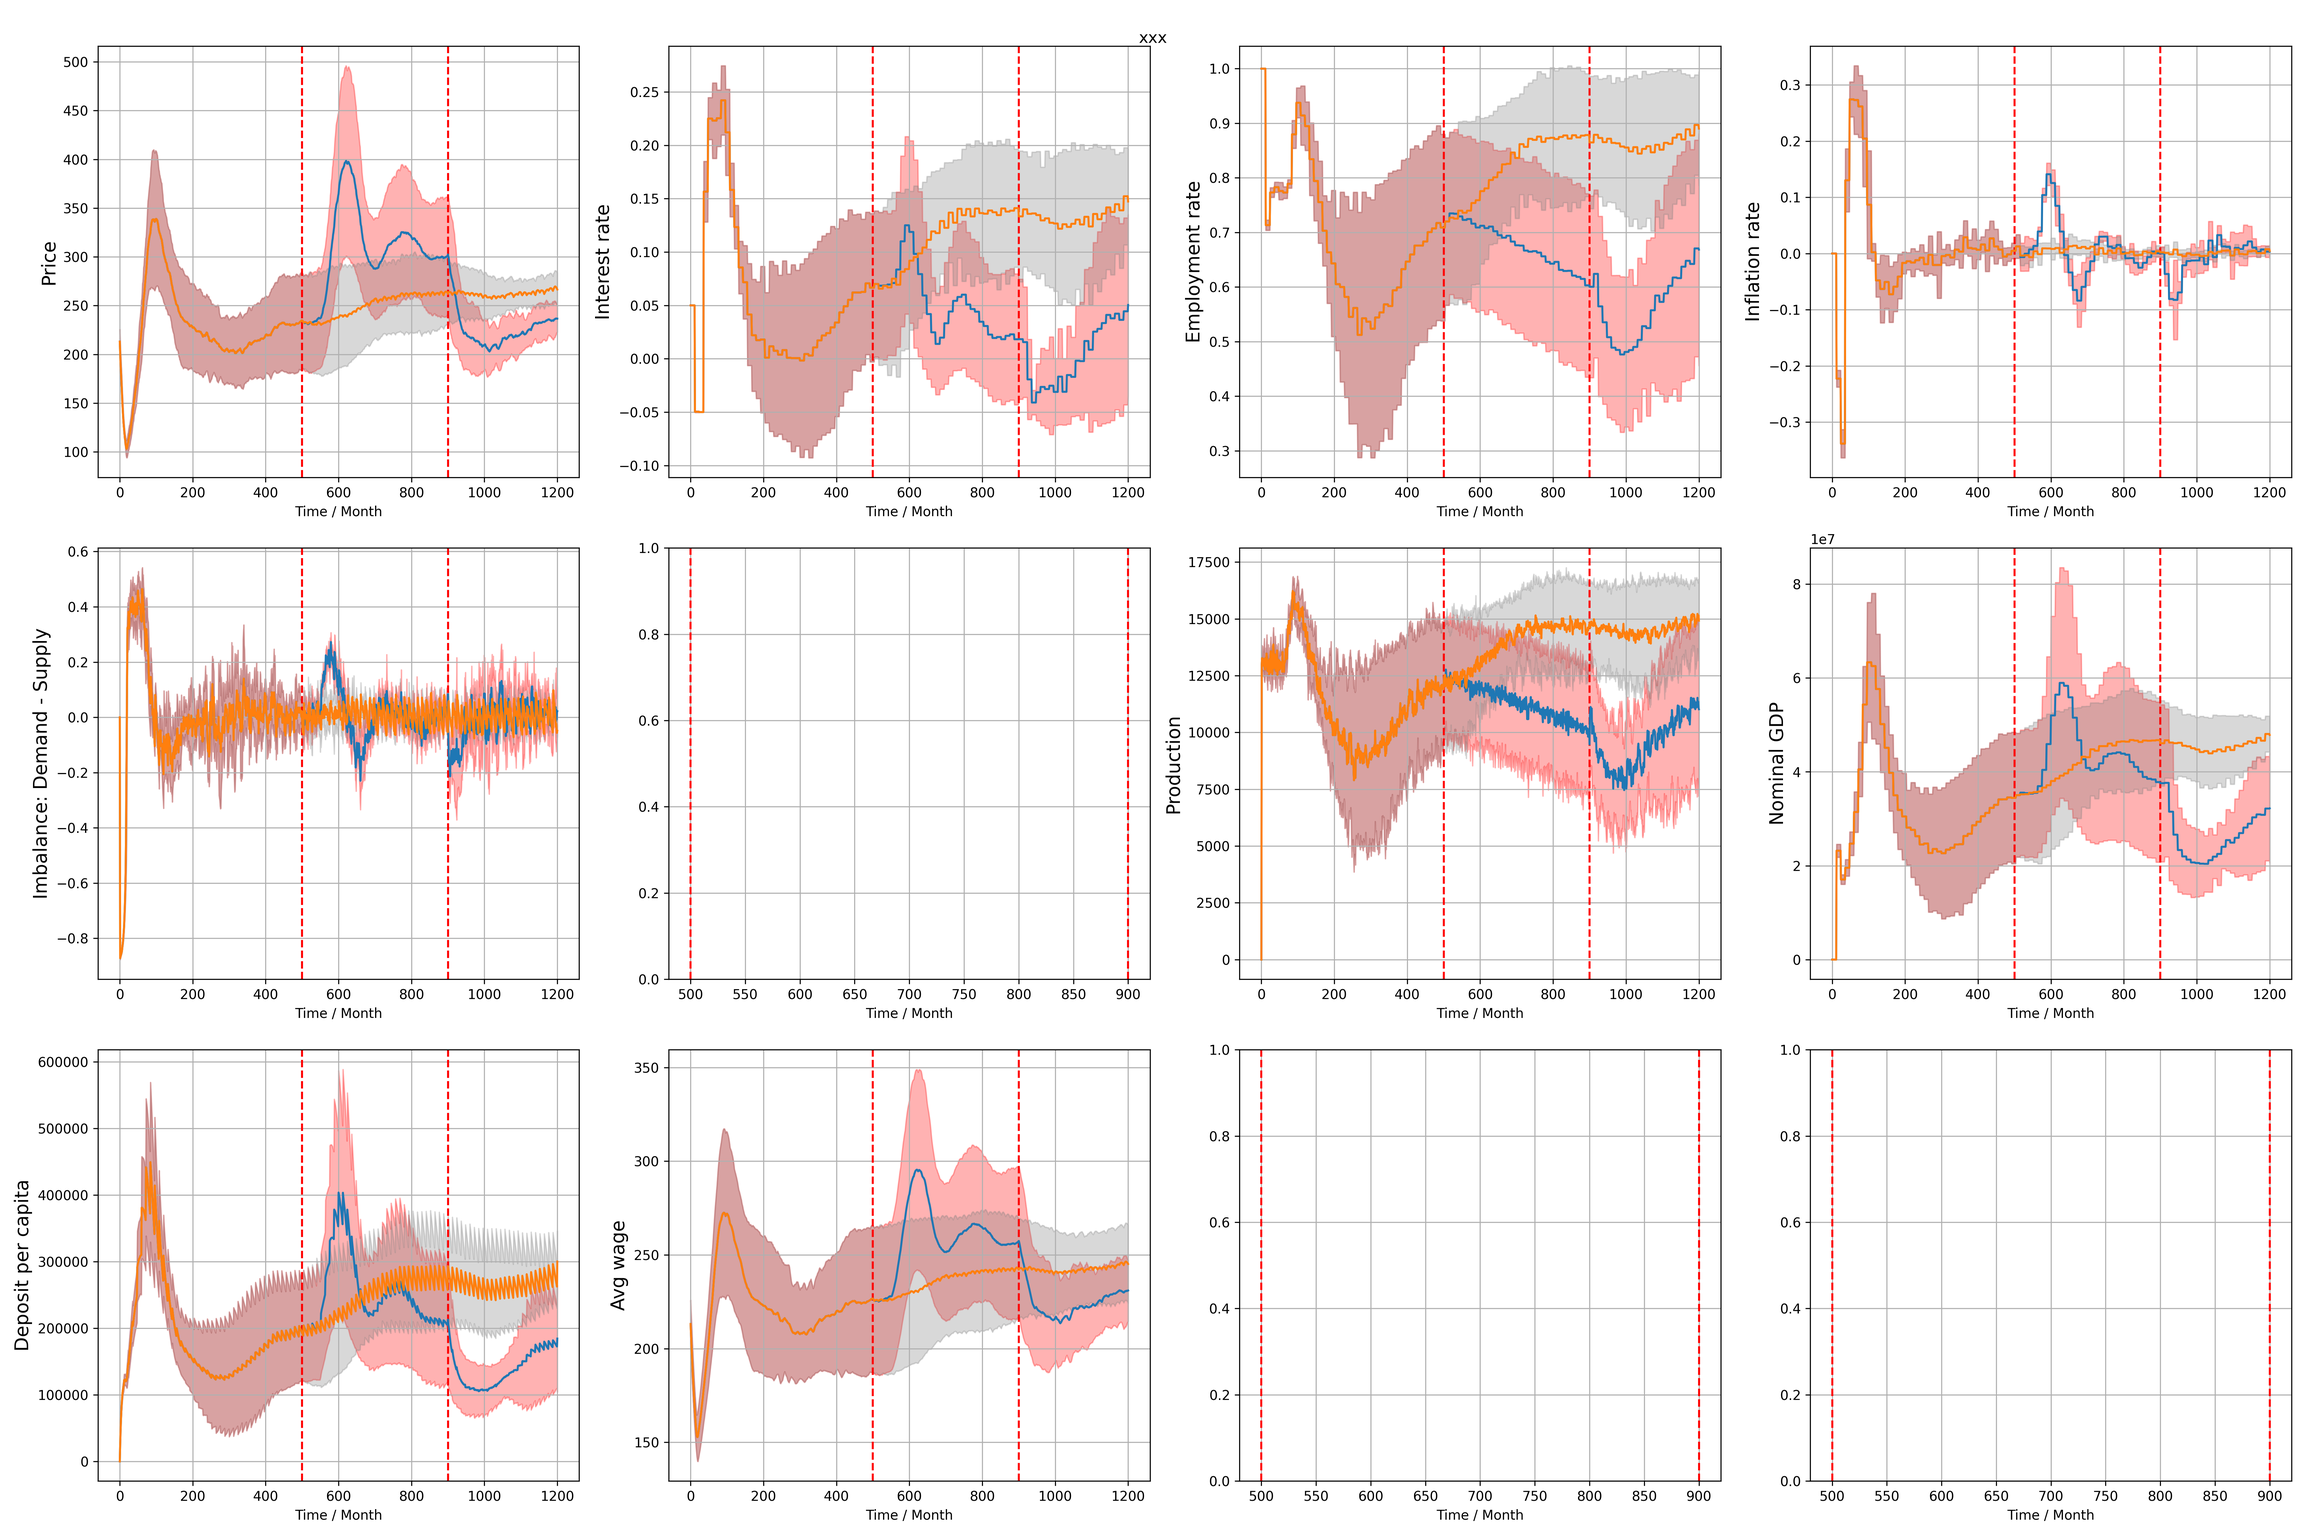
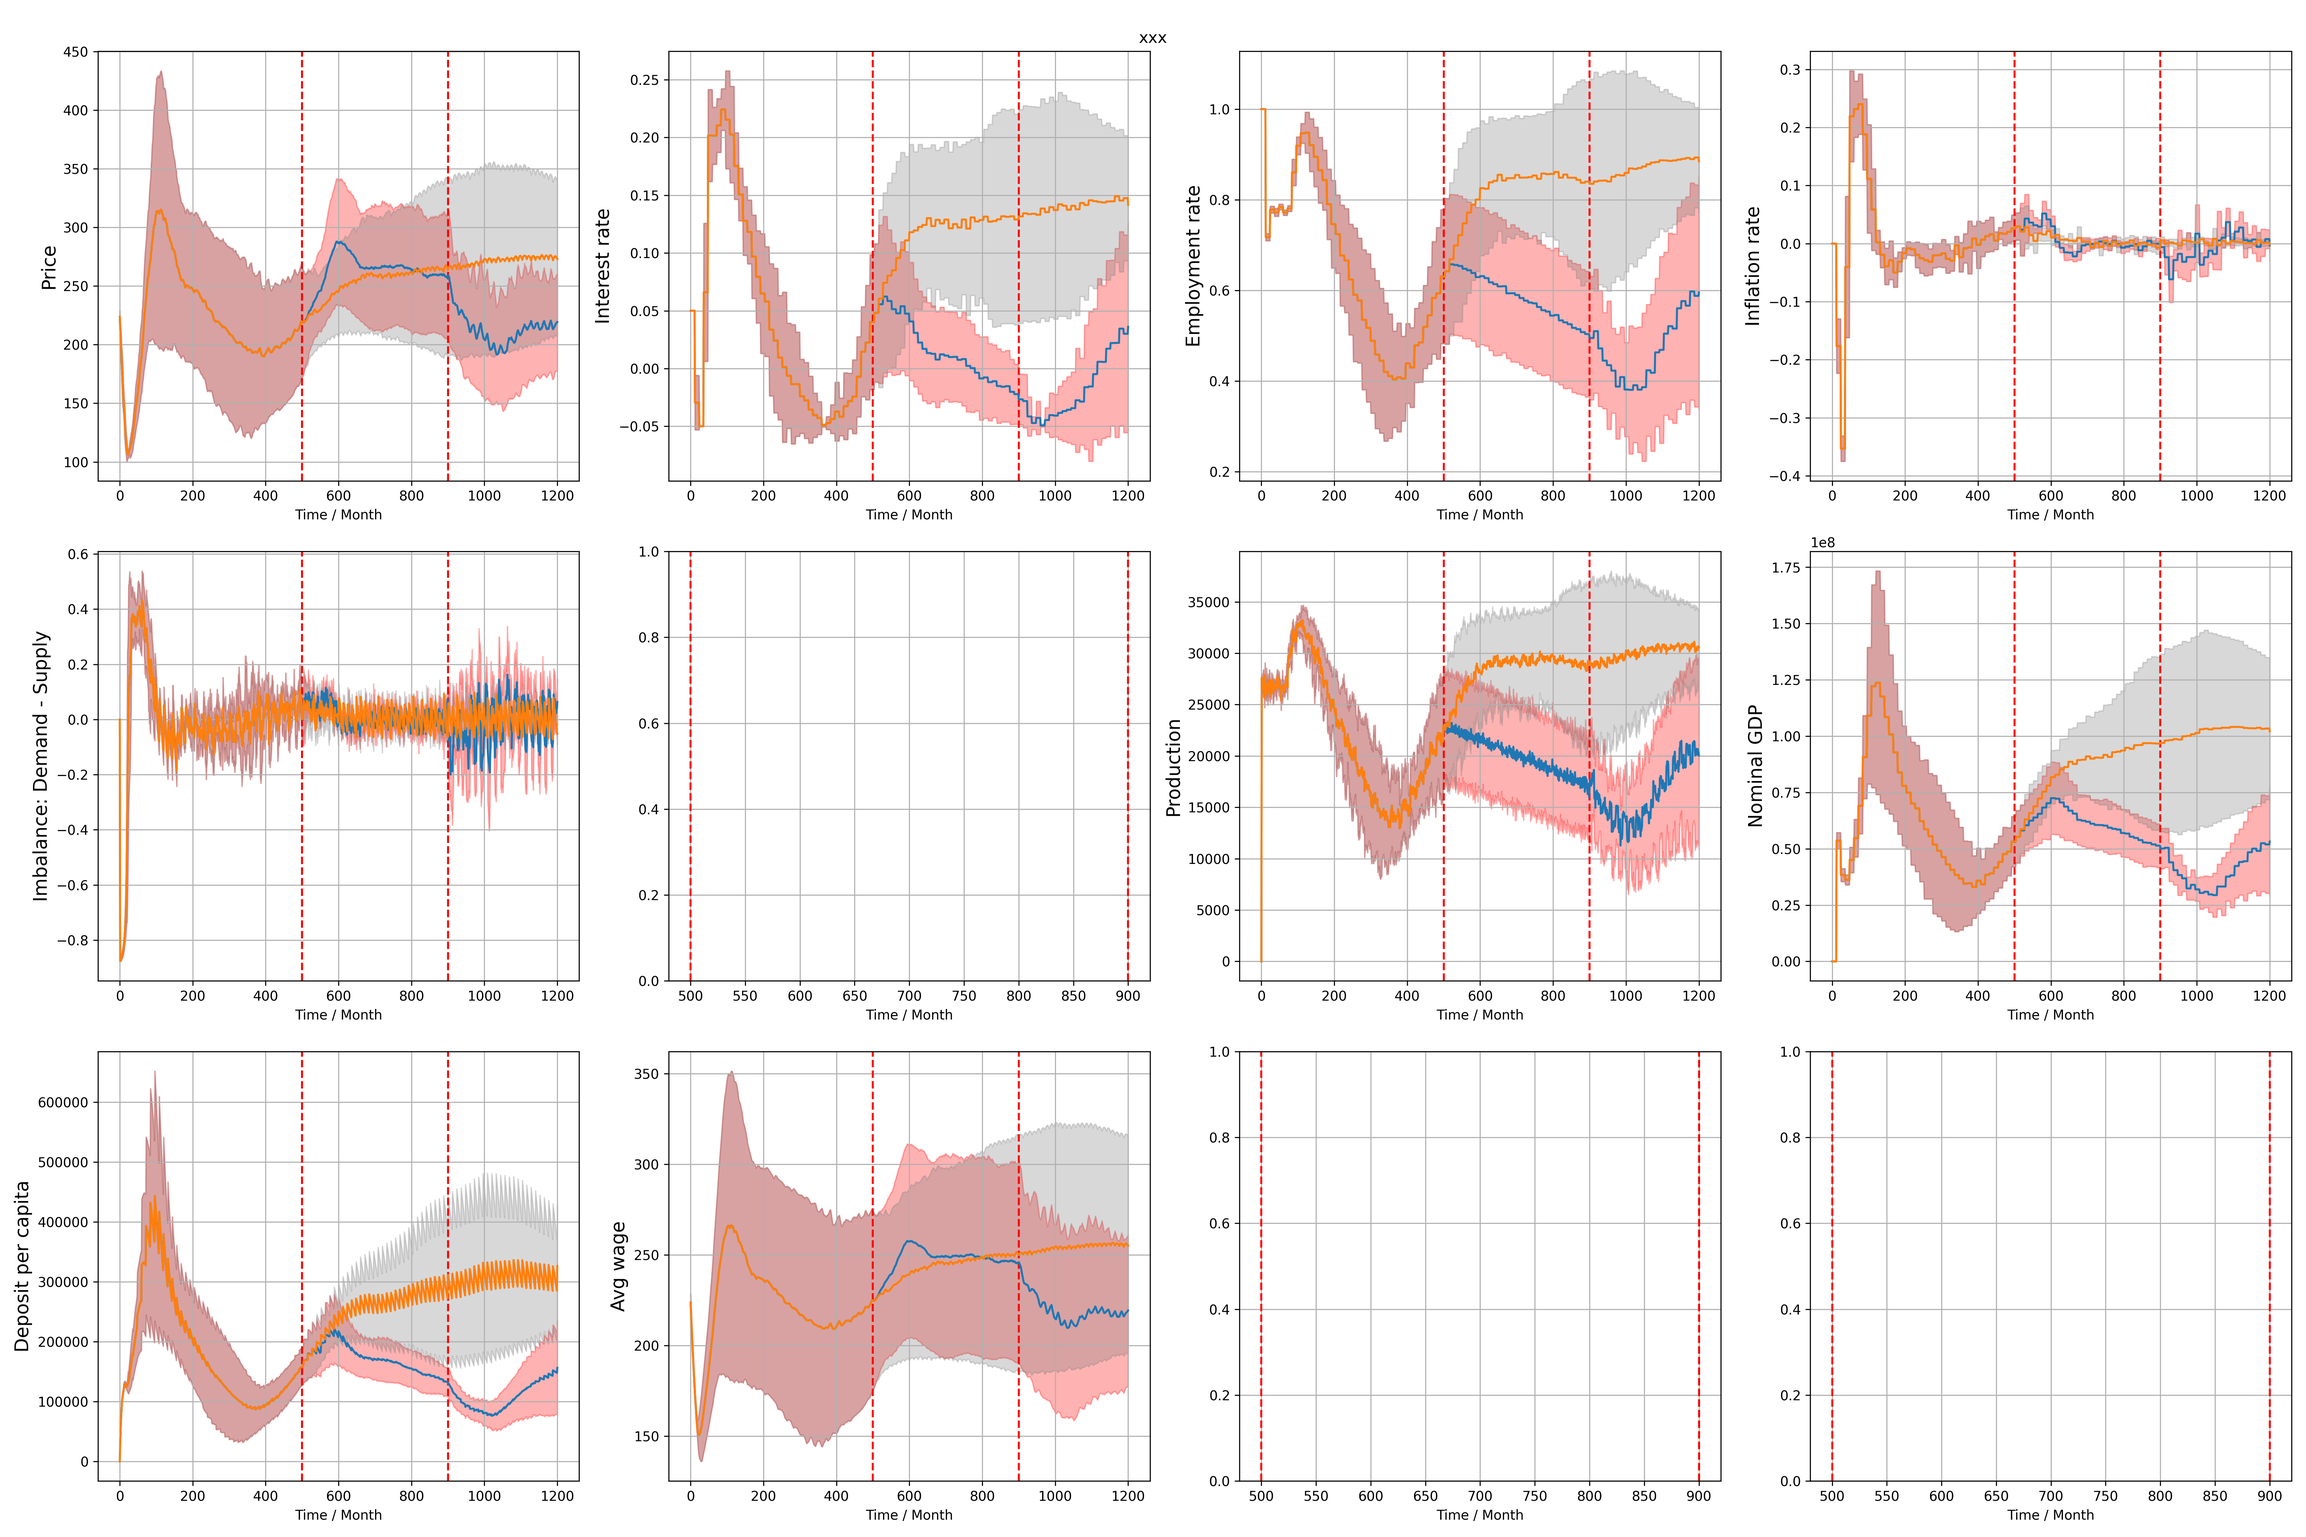
a

diff --git a/main.py b/main.py
@@ -1,118 +1,13 @@
 import numpy as np
 import random
-from utils import beta_dist, pay_wage, taxation, inflation, GDP, unemployment
+from utils import taxation, inflation, GDP, unemployment, init_agents
 from copy import deepcopy
 from config import Configuration
-
-class agent:
-    '''
-    homogeneous worker/consumer agent.
-    working skill is same (unit one) for all agents.
-    '''
-    def __init__(self, id:int, pw:float, pc:float, gamma:float, beta:float):
-        self.id = id
-        self.pw = pw         # probability of working
-        self.w = 0           # hourly wage
-        self.z = 0           # monthly income
-        self.pc = pc         # proportion of consumption
-        self.l = 0           # work state (0: unemployed, 1: employed)
-        self.gamma = gamma
-        self.beta = beta
-        
-    def work_decision(self,):
-        self.l = 1 if random.random() < self.pw else 0
-        return self.l
-    
-    def work_adjustment(self, deposit:float, rate:float):
-        '''
-        adjust the probability of working based on deposit and interest rate
-        '''
-        self.pw = pow((self.z + 1e-5) / (deposit + deposit*rate + 1e-5), self.gamma)
-        # print(self.id, self.z, deposit, "pw:", self.pw)
-        return self.pw
-    
-    def consume_adjustment(self, P:float, deposit:float):
-        '''
-        adjust the proportion of consumption based on the price and deposit
-        '''
-        self.pc = pow(P / (deposit + self.z + 1e-5), self.beta)
-        return self.pc
+from src.agent import agent
+from src.firm import firm
+from src.bank import bank
 
 
-class bank:
-    '''
-    central bank
-    '''
-    def __init__(self, rn:float, pi_t:float, un:float, alpha_pi:float, alpha_u:float):
-        self.rn = rn        # natural interest rate, constant value
-        self.pi_t = pi_t    # target inflation rate, constant value
-        self.un = un        # natural unemployment rate, constant value
-        self.rate = rn      # initial interest rate = natural rate
-        self.alpha_pi = alpha_pi
-        self.alpha_u = alpha_u
-        self.deposits = {}
-    
-    def interest(self, agent_list:list[agent],):
-        '''
-        interest rate payment anually
-        '''
-        for a in agent_list:
-            self.deposits[a.id] *= (1 + self.rate)
-    
-    def deposit(self, agent_id, income:float):
-        '''
-        update the deposit of the agent with agent_id
-        '''
-        # print('before:', agent_id, self.deposits[agent_id])
-        if agent_id in self.deposits:
-            self.deposits[agent_id] += income
-        else:
-            self.deposits[agent_id] = income
-        # print('after:', agent_id, self.deposits[agent_id])
-    
-    def rate_adjustment(self, unemployment_rate:float, inflation_rate:float):
-        '''
-        Taylor rule for interest rate adjustment
-        
-        '''
-        rate_after = max(self.rn + self.pi_t + self.alpha_pi * (inflation_rate - self.pi_t) + self.alpha_u * (self.un - unemployment_rate), -0.05)
-        self.rate = rate_after
-        return rate_after
-
-class firm:
-    def __init__(self, A:float, alpha_w:float, alpha_p:float):
-        self.A = A # universal productivity
-        self.G = 0 # quantity of essential goods
-        self.P = 0 # price of essential goods
-        self.alpha_w = alpha_w # wage adjustment parameter
-        self.alpha_p = alpha_p # price adjustment parameter
-
-    def produce(self, agent_list:list[agent],):
-        '''
-        production of essential goods
-        '''
-        production = sum([168 * self.A for a in agent_list if a.l==1])
-        # for a in agent_list:
-        #     if a.l == 1: production += 168 * self.A
-        self.G += production
-        return production
-    
-    def wage_adjustment(self, agent_list:list[agent], imbalance:float):
-        '''
-        调整工资并不能刺激生产，需要补齐这个逻辑
-        '''
-        assert len(agent_list) > 0
-        sgn = 1 if imbalance > 0 else -1
-        
-        for a in agent_list:
-            a.w *= (1 + sgn * self.alpha_w * abs(imbalance) * np.random.uniform())
-    
-    def price_adjustment(self, imbalance:float):
-        
-        sgn = 1 if imbalance > 0 else -1
-        self.P *= (1 + sgn * self.alpha_p * abs(imbalance) * np.random.uniform())
-        return self.P
-    
 class market:
     def __init__(self, ) -> None:
         pass
@@ -138,25 +33,15 @@ class market:
     
 
 def simulation(config:Configuration, event=False, intervention=False):
-    '''
-    one episode of simulation
-    '''
+    '''one episode of simulation'''
     random.seed(config.seed)
     np.random.seed(config.seed)
     
     M = market()
     F = firm(A=config.A, alpha_w=config.alpha_w, alpha_p=config.alpha_p)
-    B = bank(rn=config.rn, pi_t=config.pi_t, un=config.un, alpha_pi=config.alpha_pi, alpha_u=config.alpha_u)
-    
-    agents = [agent(id=i, 
-                    pw=np.random.uniform(config.pw_low, config.pw_high), 
-                    pc=np.random.uniform(config.pc_low, config.pc_high), 
-                    gamma=config.gamma, 
-                    beta=config.gamma) for i in range(config.num_agents)]
+    B = bank(rn=config.rn, pi_t=config.pi_t, un=config.un, alpha_pi=config.alpha_pi, alpha_u=config.alpha_u, num_agents=config.num_agents)
+    agents = init_agents(config)
 
-    for a in agents:
-        a.w = beta_dist()      # initial hourly wage
-        B.deposits[a.id] = 0.  # initial deposit
     F.P = np.mean([a.w for a in agents]) # t=0 initial price
     unem_rate = 0.
     infla_rate = 0.
@@ -179,8 +64,6 @@ def simulation(config:Configuration, event=False, intervention=False):
         }
     
     for t in range(1, config.num_time_steps+1):
-        
-        
         
         ################ 事 件 开 始 ################
         # 增加失业
@@ -211,7 +94,7 @@ def simulation(config:Configuration, event=False, intervention=False):
         production = F.produce(agents) # production
         
         
-        wages = pay_wage(agents)
+        wages = F.pay_wage(agents)
         taxes = taxation(wages)
         # print(wages[:10], taxes[:10], '\n\n')
         wages_after_tax = [w - t for w, t in zip(wages, taxes)]
@@ -221,7 +104,7 @@ def simulation(config:Configuration, event=False, intervention=False):
             
             ################ 干 预 开 始 ################
             if t >= 550 and t <= 900 and intervention:
-                B.deposit(a.id, w + sum(taxes)/config.num_agents + 0.02*B.deposits[a.id]) # redistribution
+                B.deposit(a.id, w + sum(taxes)/config.num_agents + 0.01*B.deposits[a.id]) # redistribution
             else:
                 B.deposit(a.id, w + sum(taxes)/config.num_agents) # redistribution
             ################ 干 预 结 束 ################

diff --git a/src/bank.py b/src/bank.py
@@ -1,0 +1,41 @@
+from agent import agent
+
+class bank:
+    '''
+    central bank
+    '''
+    def __init__(self, rn:float, pi_t:float, un:float, alpha_pi:float, alpha_u:float, num_agents:int):
+        self.rn = rn        # natural interest rate, constant value
+        self.pi_t = pi_t    # target inflation rate, constant value
+        self.un = un        # natural unemployment rate, constant value
+        self.rate = rn      # initial interest rate = natural rate
+        self.alpha_pi = alpha_pi
+        self.alpha_u = alpha_u
+        self.deposits = {i:0. for i in range(num_agents)} # 注意，id从0开始编号，可能需要修改
+    
+    def interest(self, agent_list:list[agent],):
+        '''
+        interest rate payment anually
+        '''
+        for a in agent_list:
+            self.deposits[a.id] *= (1 + self.rate)
+    
+    def deposit(self, agent_id, income:float):
+        '''
+        update the deposit of the agent with agent_id
+        '''
+        # print('before:', agent_id, self.deposits[agent_id])
+        if agent_id in self.deposits:
+            self.deposits[agent_id] += income
+        else:
+            self.deposits[agent_id] = income
+        # print('after:', agent_id, self.deposits[agent_id])
+    
+    def rate_adjustment(self, unemployment_rate:float, inflation_rate:float):
+        '''
+        Taylor rule for interest rate adjustment
+        
+        '''
+        rate_after = max(self.rn + self.pi_t + self.alpha_pi * (inflation_rate - self.pi_t) + self.alpha_u * (self.un - unemployment_rate), -0.05)
+        self.rate = rate_after
+        return rate_after

diff --git a/src/agent.py b/src/agent.py
@@ -1,0 +1,47 @@
+import random
+import numpy as np
+
+def beta_dist(size=1):
+    '''
+    truncated beta distribution for generating hourly wage
+    '''
+    alpha, beta = 1.5, 2
+    s = np.random.beta(alpha, beta, size) * 500
+    if s <= 500/168:
+        return 500/168
+    return s[0]
+
+class agent:
+    '''
+    homogeneous worker/consumer agent.
+    working skill is same (unit one) for all agents.
+    '''
+    def __init__(self, id:int, pw:float, pc:float, gamma:float, beta:float):
+        self.id = id
+        self.pw = pw         # probability of working
+        self.w = beta_dist() # hourly wage
+        self.z = 0           # monthly income
+        self.pc = pc         # proportion of consumption
+        self.l = 0           # work state (0: unemployed, 1: employed)
+        self.gamma = gamma
+        self.beta = beta
+        
+        
+    def work_decision(self,):
+        self.l = 1 if random.random() < self.pw else 0
+        return self.l
+    
+    def work_adjustment(self, deposit:float, rate:float):
+        '''
+        adjust the probability of working based on deposit and interest rate
+        '''
+        self.pw = pow((self.z + 1e-5) / (deposit + deposit*rate + 1e-5), self.gamma)
+        # print(self.id, self.z, deposit, "pw:", self.pw)
+        return self.pw
+    
+    def consume_adjustment(self, P:float, deposit:float):
+        '''
+        adjust the proportion of consumption based on the price and deposit
+        '''
+        self.pc = pow(P / (deposit + self.z + 1e-5), self.beta)
+        return self.pc

diff --git a/src/firm.py b/src/firm.py
@@ -1,0 +1,43 @@
+import random
+import numpy as np
+from agent import agent
+
+class firm:
+    def __init__(self, A:float, alpha_w:float, alpha_p:float):
+        self.A = A # universal productivity
+        self.G = 0 # quantity of essential goods
+        self.P = 0 # price of essential goods
+        self.alpha_w = alpha_w # wage adjustment parameter
+        self.alpha_p = alpha_p # price adjustment parameter
+
+    def produce(self, agent_list:list[agent],):
+        '''
+        production of essential goods
+        '''
+        # random production
+        production = sum([168 * self.A * (1 + random.random() * 0.05) for a in agent_list if a.l==1])
+        # for a in agent_list:
+        #     if a.l == 1: production += 168 * self.A
+        self.G += production
+        return production
+    
+    def wage_adjustment(self, agent_list:list[agent], imbalance:float):
+        assert len(agent_list) > 0
+        sgn = 1 if imbalance > 0 else -1
+        for a in agent_list:
+            a.w *= (1 + sgn * self.alpha_w * abs(imbalance) * np.random.uniform())
+    
+    def price_adjustment(self, imbalance:float):
+        sgn = 1 if imbalance > 0 else -1
+        self.P *= (1 + sgn * self.alpha_p * abs(imbalance) * np.random.uniform())
+        return self.P
+    
+    def pay_wage(self, agent_list:list):
+        wages = []
+        for a in agent_list:
+            if a.l:
+                # a.z = a.w * 168   # monthly income
+                wages.append(a.w * 168)
+            else:
+                wages.append(0.)
+        return wages

diff --git a/utils.py b/utils.py
@@ -1,25 +1,14 @@
 import numpy as np
 from config import Configuration
+from src.agent import agent
 
-def beta_dist(size=1):
-    '''
-    truncated beta distribution for generating hourly wage
-    '''
-    alpha, beta = 1.5, 2
-    s = np.random.beta(alpha, beta, size) * 500
-    if s <= 500/168:
-        return 500/168
-    return s[0]
 
-def pay_wage(agent_list:list):
-    wages = []
-    for a in agent_list:
-        if a.l:
-            # a.z = a.w * 168   # monthly income
-            wages.append(a.w * 168)
-        else:
-            wages.append(0.)
-    return wages
+def init_agents(config:Configuration) -> list[agent]:
+    return [agent(id=i, 
+                  pw=np.random.uniform(config.pw_low, config.pw_high), 
+                  pc=np.random.uniform(config.pc_low, config.pc_high), 
+                  gamma=config.gamma, 
+                  beta=config.gamma) for i in range(config.num_agents)]
 
 def taxation(wages:list[float]):
     '''
@@ -298,6 +287,10 @@ def plot_log(img_name:str, log:dict, config:Configuration):
     # plt.show()
 
 if __name__ == '__main__':
+    import matplotlib.pyplot as plt
     # taxes = taxation([4500, 21000, 57000, 115000, 180000, 300000, 700000])
     # print(taxes)
-    pass
+    config = Configuration()
+    agents = init_agents(config)
+    plt.hist([a.w for a in agents], bins=20)
+    plt.show()

diff --git a/config.py b/config.py
@@ -4,7 +4,7 @@ class Configuration:
     ##           仿 真 参 数           ##
     #####################################
     seed = int(time()) # 123
-    num_agents = 100
+    num_agents = 200
     num_time_steps = 12 * 100
     
     
